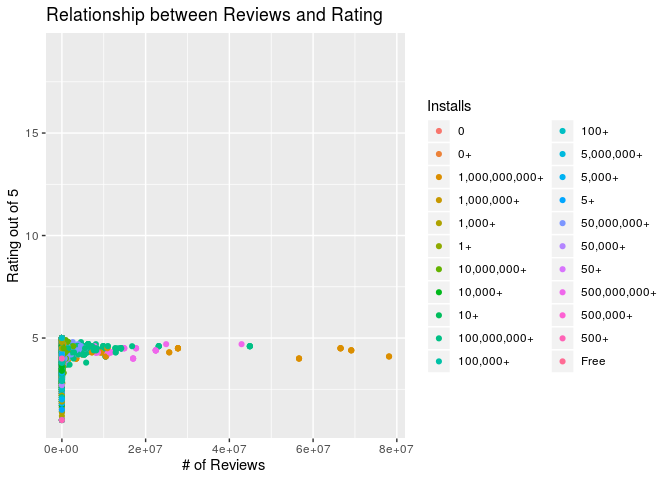
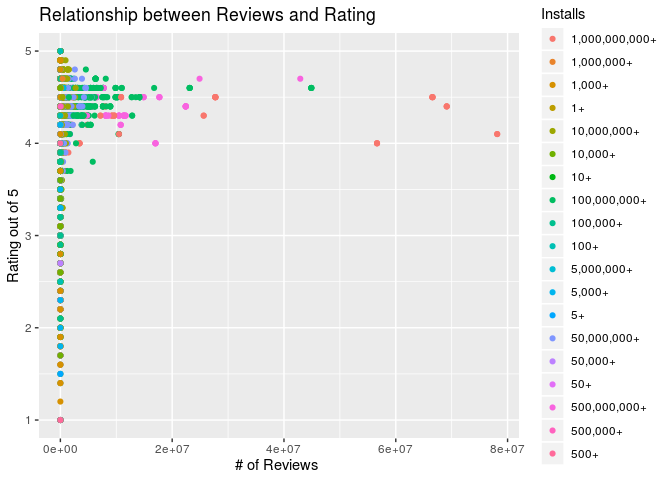
Work on Regression Plan

diff --git a/01-proposal/proposal.md b/01-proposal/proposal.md
@@ -11,14 +11,14 @@ October 29, 2019
 library(tidyverse)
 ```
 
-    ## ── Attaching packages ────────────────────────────────────────────────────────────────────────────────────────────── tidyverse 1.2.1 ──
+    ## ── Attaching packages ──────────────────────────────────────────────────── tidyverse 1.2.1 ──
 
     ## ✔ ggplot2 3.2.1     ✔ purrr   0.3.2
     ## ✔ tibble  2.1.3     ✔ dplyr   0.8.3
     ## ✔ tidyr   0.8.3     ✔ stringr 1.4.0
     ## ✔ readr   1.3.1     ✔ forcats 0.4.0
 
-    ## ── Conflicts ───────────────────────────────────────────────────────────────────────────────────────────────── tidyverse_conflicts() ──
+    ## ── Conflicts ─────────────────────────────────────────────────────── tidyverse_conflicts() ──
     ## ✖ dplyr::filter() masks stats::filter()
     ## ✖ dplyr::lag()    masks stats::lag()
 
@@ -54,7 +54,59 @@ apps <- read_csv("/cloud/project/02-data/googleplaystore.csv")
     ## 10473 Reviews no trailing characters M          '/cloud/project/02-data/googleplaystore.csv'
     ## 10473 NA      13 columns             12 columns '/cloud/project/02-data/googleplaystore.csv'
 
+``` r
+apps <- apps %>%
+  na.omit(apps)
+```
+
 ## Section 3. Regression Analysis Plan
+
+``` r
+ggplot(data = apps, aes(x = Rating)) + geom_histogram(binwidth = 0.1, fill = "blue") + xlim(0,5) +
+  labs(title = "Distribution of App Rating")
+```
+
+    ## Warning: Removed 2 rows containing missing values (geom_bar).
+
+![](proposal_files/figure-gfm/rating-distribution-1.png)<!-- -->
+
+``` r
+apps %>% 
+  summarise(median(Rating), IQR(Rating))
+```
+
+    ## # A tibble: 1 x 2
+    ##   `median(Rating)` `IQR(Rating)`
+    ##              <dbl>         <dbl>
+    ## 1              4.3           0.5
+
+``` r
+count(apps, Category) %>% 
+  arrange(desc(n)) 
+```
+
+    ## # A tibble: 33 x 2
+    ##    Category          n
+    ##    <chr>         <int>
+    ##  1 FAMILY         1747
+    ##  2 GAME           1097
+    ##  3 TOOLS           734
+    ##  4 PRODUCTIVITY    351
+    ##  5 MEDICAL         350
+    ##  6 COMMUNICATION   328
+    ##  7 FINANCE         323
+    ##  8 SPORTS          319
+    ##  9 PHOTOGRAPHY     317
+    ## 10 LIFESTYLE       314
+    ## # … with 23 more rows
+
+We determined median and IQR as our summary statistics because the
+distribution of `rating` appears to be slightly left-skewed. The median
+rating of an app is approximately **4.3** and the IQR is **0.5**
+
+  - In the possible interactions below, we can also see the relationship
+    between our responsible variable `rating` and predictor variables of
+    interest.
 
 ### Possible Interactions
 
@@ -68,8 +120,6 @@ categories.
 ggplot(apps, aes(x = Category, y = Rating, color = `Content Rating`)) + geom_point() +
 labs( title = "Relationship between Category and Rating", x ="Category", y = "Rating out of 5")
 ```
-
-    ## Warning: Removed 1474 rows containing missing values (geom_point).
 
 ![](proposal_files/figure-gfm/int-content-1.png)<!-- -->
 
@@ -87,8 +137,6 @@ ggplot(apps, aes(x = Reviews, y = Rating, color = Installs)) + geom_point() +
 labs( title = "Relationship between Reviews and Rating", x ="# of Reviews ", y = "Rating out of 5")
 ```
 
-    ## Warning: Removed 1475 rows containing missing values (geom_point).
-
 ![](proposal_files/figure-gfm/int-installs-1.png)<!-- -->
 
 As shown in this plot, as the number of reviews for an app increases, so
@@ -102,10 +150,8 @@ a price greater than 0.
 
 ``` r
 ggplot(apps, aes(x = Type, y = Rating, color = Price)) + geom_point() +
-labs( title = "Relationship between Tyle and Rating", x ="Type", y = "Rating out of 5")
+labs( title = "Relationship between Type & Rating", x ="Type", y = "Rating out of 5")
 ```
-
-    ## Warning: Removed 1474 rows containing missing values (geom_point).
 
 ![](proposal_files/figure-gfm/int-type-1.png)<!-- -->
 
@@ -176,7 +222,7 @@ model your data as opposed to other methods.
 glimpse(apps)
 ```
 
-    ## Observations: 10,841
+    ## Observations: 9,365
     ## Variables: 13
     ## $ App              <chr> "Photo Editor & Candy Camera & Grid & ScrapBook…
     ## $ Category         <chr> "ART_AND_DESIGN", "ART_AND_DESIGN", "ART_AND_DE…
